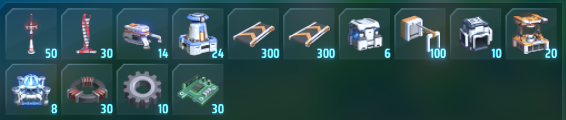
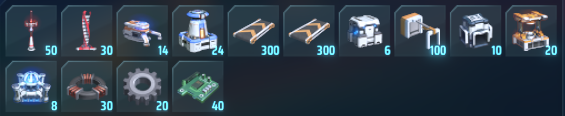
Changed arrays to lists, some values, updated pics
Changed arrays to lists so i can add something to it with conditions, changed values a bit,
added 60 motors to Huge, added option to receive 300 blue matrixes

commit

diff --git a/FastStart/FastStart.cs b/FastStart/FastStart.cs
@@ -18,13 +18,15 @@ namespace FastStart
         public const string __NAME__ = "FastStart";
         public const string __GUID__ = "com.Trol1face.dsp." + __NAME__;
         public static ConfigEntry<String> suppliesAmount;
+        public static ConfigEntry<bool> dronesTooSlow;
 
         private void Awake()
         {
             // Plugin startup logic
             suppliesAmount = Config.Bind("General", "Amount of supplies", "enough",
             "'few' gives a couple of machines to make work a bit less manual, \n'enough' gives a few dozens (enough to start a small mall), \nhuge is huge. Check thunderstore modpage for more info\nAVAILABLE OPTIONS (type in): few, enough, huge. \nDEFAULT: enough.");
-
+            dronesTooSlow = Config.Bind("General", "Drones too slow (only enough/huge)", false,
+            "If enabled you will also receive 300 blue matrix to fast upgrade drones speed+count.");
             new Harmony(__GUID__).PatchAll(typeof(Patch));
         }
 
@@ -61,6 +63,9 @@ namespace FastStart
         {
             String amount = suppliesAmount.Value;
             if (amount == "few" || amount == "enough" || amount == "huge") {
+                List <IDCNTINC> suppliesFew;
+                List <IDCNTINC> suppliesEnough;
+                List <IDCNTINC> suppliesHuge;
                 int minerId = 2301;
                 int smelterId = 2302;
                 int windTurbineId = 2203;
@@ -76,10 +81,12 @@ namespace FastStart
                 int coilId = 1202;
                 int circuitId = 1301;
                 int gearId = 1201;
-
-                IDCNTINC[] suppliesFew = {
+                int motorId = 1203;
+                int blueMatrixId = 6001;
+                suppliesFew = new() 
+                {
                     new(teslaTowerId, 10, 0),
-                    new(windTurbineId, 6, 0),
+                    new(windTurbineId, 8, 0),
                     new(minerId, 2, 0),
                     new(smelterId, 3, 0),
                     new(beltId, 100, 0),
@@ -88,10 +95,11 @@ namespace FastStart
                     //new(splitterId, 1, 0),
                     new(assemblerId, 3, 0),
                     new(coilId, 30, 0),
-                    new(gearId, 10, 0),
-                    new(circuitId, 30, 0)
+                    new(gearId, 20, 0),
+                    new(circuitId, 40, 0)
                 };
-                IDCNTINC[] suppliesEnough = {
+                suppliesEnough = new() 
+                {
                     new(teslaTowerId, 50, 0),
                     new(windTurbineId, 30, 0),
                     new(minerId, 14, 0),
@@ -103,13 +111,13 @@ namespace FastStart
                     new(assemblerId, 20, 0),
                     new(matrixLabId, 8, 0),
                     new(coilId, 30, 0),
-                    new(gearId, 10, 0),
-                    new(circuitId, 30, 0)
+                    new(gearId, 20, 0),
+                    new(circuitId, 40, 0)
                 };
-                IDCNTINC[] suppliesHuge = {
+                suppliesHuge = new() {
                     new(teslaTowerId, 200, 0),
-                    new(WirelessPowerTowerId, 20, 0),
                     new(windTurbineId, 30, 0),
+                    new(WirelessPowerTowerId, 20, 0),
                     new(thermalStationId, 8, 0),
                     new(minerId, 30, 0),
                     new(smelterId, 50, 0),
@@ -120,20 +128,26 @@ namespace FastStart
                     new(assemblerId, 50, 0),
                     new(matrixLabId, 20, 0),
                     new(coilId, 30, 0),
-                    new(gearId, 10, 0),
-                    new(circuitId, 30, 0),
+                    new(gearId, 20, 0),
+                    new(circuitId, 40, 0),
+                    new(motorId, 60, 0)
                 };
+                if (dronesTooSlow.Value) 
+                {
+                    suppliesEnough.Add(new(blueMatrixId, 300, 0));
+                    suppliesHuge.Add(new(blueMatrixId, 300, 0));
+                }
                 if (amount == "few")
                 {
-                    return suppliesFew;
+                    return suppliesFew.ToArray();
                 }
                 else if (amount == "enough")
                 {
-                    return suppliesEnough;
+                    return suppliesEnough.ToArray();
                 }
                 else if (amount == "huge")
                 {
-                    return suppliesHuge;
+                    return suppliesHuge.ToArray();
                 }
             }
             return Configs.freeMode.items;

diff --git a/README.md b/README.md
@@ -7,24 +7,29 @@ It is not like super balanced but i don't think that **enough** is somehow OP. H
 
 Gives a very few machines to reduce this manual stage a bit.
 
-![few](https://github.com/Trol1face/DSP_FastStart/blob/main/images/few.png)
+![few]()
 
 #### enough
 
 Gives enough to don't dig and craft things manual, to build a small mall which will replicate more things.
 
-![enough](https://github.com/Trol1face/DSP_FastStart/blob/main/images/enough.png)
+![enough]()
 
 #### huge
 
 Huge is huge. A lot of basic things, a dozen of wireless power towers (WPT) and couple of thermal power stations (TPS) to have no problems with energy. **You can't build unopened things via menu at the bottom, to build them take them from inventory.**
 
-![huge](https://github.com/Trol1face/DSP_FastStart/blob/main/images/huge.png)
+![huge]()
 
-Every option has 30 magnetic coils, 30 circuit boards and 10 gears for early techs to skip manual digging/crafting and open basic building tools.
+Every option has 30 magnetic coils, 40 circuit boards and 20 gears for early techs (electromagnetism, metallurgy, matrix, assembling and logistics) to skip manual digging/crafting and unlock basic building tools.
 
 Researching early techs rewards you with buildings, so for **few** its more likely 3 miners, 4 smelters and a couple more belts&sorters.
 
 ## Recent changes
 
-nop
+#### 1.0.3
+
+- Changed circuits to 40, gears to 20, to be able also research logistics.  
+- Increased **few** wind turbines from 6 to 8.
+- Added 60 motors to **huge** variant for fast research of tier 1 movespeed.
+- Added an option in config to give blue matrixes for fast drones speed+count research
